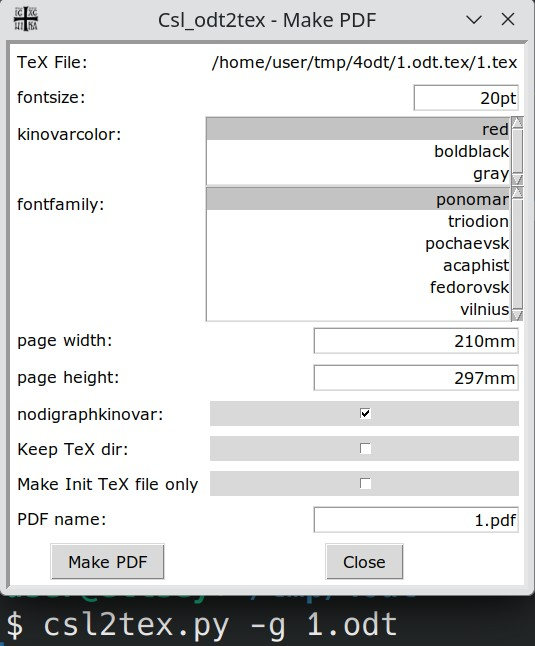
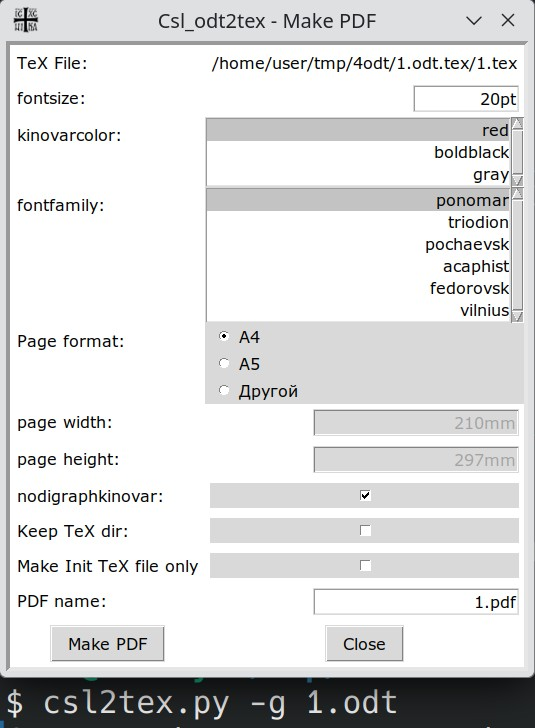
v.0.0.28
upd: page format selection in GUI.
fix: breezypythongui.py: radiobutton init.

diff --git a/csl2tex.py b/csl2tex.py
@@ -153,8 +153,8 @@ cover={_params.cover},% припуск под корешок
 fontsize={_params.fontsize},
 nodigraphkinovar={_params.nodigraphkinovar},
 single=true,
-kinovarcolor={_params.kinovarcolor},\
-fontfamily={_params.fontfamily},\
+kinovarcolor={_params.kinovarcolor},
+fontfamily={_params.fontfamily},
 ]{{churchslavichymn}}
 {self.underscore_str}
 
@@ -241,16 +241,37 @@ fontfamily={_params.fontfamily},\
             self.fontfamily.configure(justify='right', exportselection=False)
             self.fontfamily.setSelectedIndex(0)
 
+            # Page format a4 a5, own
+            row_inc()
+            self.addLabel(text='Page format:', row=row, column=0, font=font)
+            self.rb_group = self.addRadiobuttonGroup(row=row, column=1)
+            self.rb_a4 = self.rb_group.addRadiobutton(
+                "A4", command=self.rb_a5_selected_handler)
+            self.rb_a5 = self.rb_group.addRadiobutton(
+                "A5", command=self.rb_a5_selected_handler)
+            self.rb_other = self.rb_group.addRadiobutton(
+                "Другой", command=self.rb_other_selected_handler)
+            # NOT WORKING! self.rb_group.configure(justify='right')
+            # rb_a4.config(sticky=tkinter.N+tkinter.W)
+            # Select one of the buttons in the group
+            self.rb_group.setSelectedButton(self.rb_a4)
+            self.rb_selected = self.rb_a4
+            self.rb_selected_init()
+
             # pwidth.
             row_inc()
             self.addLabel(text='page width:', row=row, column=0, font=font)
-            self.pwidth = self.addTextField(text=self.params.pwidth, row=row, column=1)
+            # TODO: addFloatField()
+            self.pwidth = self.addTextField(
+                text=self.params.pwidth, row=row, column=1, state='disabled')
             self.pwidth.configure(justify='right')
 
             # pheight.
             row_inc()
             self.addLabel(text='page height:', row=row, column=0, font=font)
-            self.pheight = self.addTextField(text=self.params.pheight, row=row, column=1)
+            # TODO: addFloatField()
+            self.pheight = self.addTextField(
+                text=self.params.pheight, row=row, column=1, state='disabled')
             self.pheight.configure(justify='right')
 
             # nodigraphkinovar.
@@ -293,6 +314,9 @@ fontfamily={_params.fontfamily},\
                 self.fontsize,
                 self.kinovarcolors,
                 self.fontfamily,
+                self.rb_a4,
+                self.rb_a5,
+                self.rb_other,
                 self.pwidth,
                 self.pheight,
                 self.pdf_name,
@@ -311,6 +335,24 @@ fontfamily={_params.fontfamily},\
             # innpmarg = '2.0cm'
             # cover = '0mm'
 
+        def rb_selected_init(self):
+            self.rb_selected = self.rb_group.getSelectedButton()
+
+        def rb_a4_selected_handler(self):
+            self.tf_page_geometry_turner(True)
+
+        def rb_a5_selected_handler(self):
+            self.tf_page_geometry_turner(True)
+
+        def rb_other_selected_handler(self):
+            self.tf_page_geometry_turner(False)
+
+        def tf_page_geometry_turner(self, _state: bool = True):
+            # По умолчанию - отключены.
+            _state_str = 'disabled' if _state else 'normal'
+            self.pwidth.config(state=_state_str)
+            self.pheight.config(state=_state_str)
+
         def apply_params_changes(self):
             def msg_wrong_format(_parameter, _string):
                 self.messageBox(message=f'Неверный формат!\n{_string}: {_parameter}')
@@ -326,19 +368,27 @@ fontfamily={_params.fontfamily},\
             self.params.kinovarcolor = self.kinovarcolors.getSelectedItem()
             self.params.fontfamily = self.fontfamily.getSelectedItem()
 
-            _pwidth = self.pwidth.getText()
-            if re.match(r'\d+(\.\d+)?(cm|mm)', _pwidth):
-                self.params.pwidth = _pwidth
-            else:
-                msg_wrong_format(_pwidth, 'pwidth')
-                return False
+            self.rb_selected_init()
+            if self.rb_selected == self.rb_a4:
+                self.params.pwidth = '210mm'
+                self.params.pheight = '297mm'
+            elif self.rb_selected == self.rb_a5:
+                self.params.pwidth = '148mm'
+                self.params.pheight = '210mm'
+            elif self.rb_selected == self.rb_other:
+                _pwidth = self.pwidth.getText()
+                if re.match(r'\d+(\.\d+)?(cm|mm)', _pwidth):
+                    self.params.pwidth = _pwidth
+                else:
+                    msg_wrong_format(_pwidth, 'pwidth')
+                    return False
 
-            _pheight = self.pheight.getText()
-            if re.match(r'\d+(\.\d+)?(cm|mm)', _pheight):
-                self.params.pheight = _pheight
-            else:
-                msg_wrong_format(_pheight, 'pheight')
-                return False
+                _pheight = self.pheight.getText()
+                if re.match(r'\d+(\.\d+)?(cm|mm)', _pheight):
+                    self.params.pheight = _pheight
+                else:
+                    msg_wrong_format(_pheight, 'pheight')
+                    return False
 
             _nodigraphkinovar = self.nodigraphkinovar.isChecked()
             self.params.nodigraphkinovar = 'true' if _nodigraphkinovar else 'false'

diff --git a/utils/breezypythongui.py b/utils/breezypythongui.py
@@ -449,7 +449,7 @@ class EasyRadiobuttonGroup(tkinter.Frame):
         self.grid(row = row, column = column,
                   rowspan = rowspan, columnspan = columnspan,
                   sticky = N+S+E+W)
-        self._commonVar = tkinter.StringVar("")
+        self._commonVar = tkinter.StringVar(value="")
         self._buttons = dict()
         self._orient = orient
         self._buttonRow = self._buttonColumn = 0
